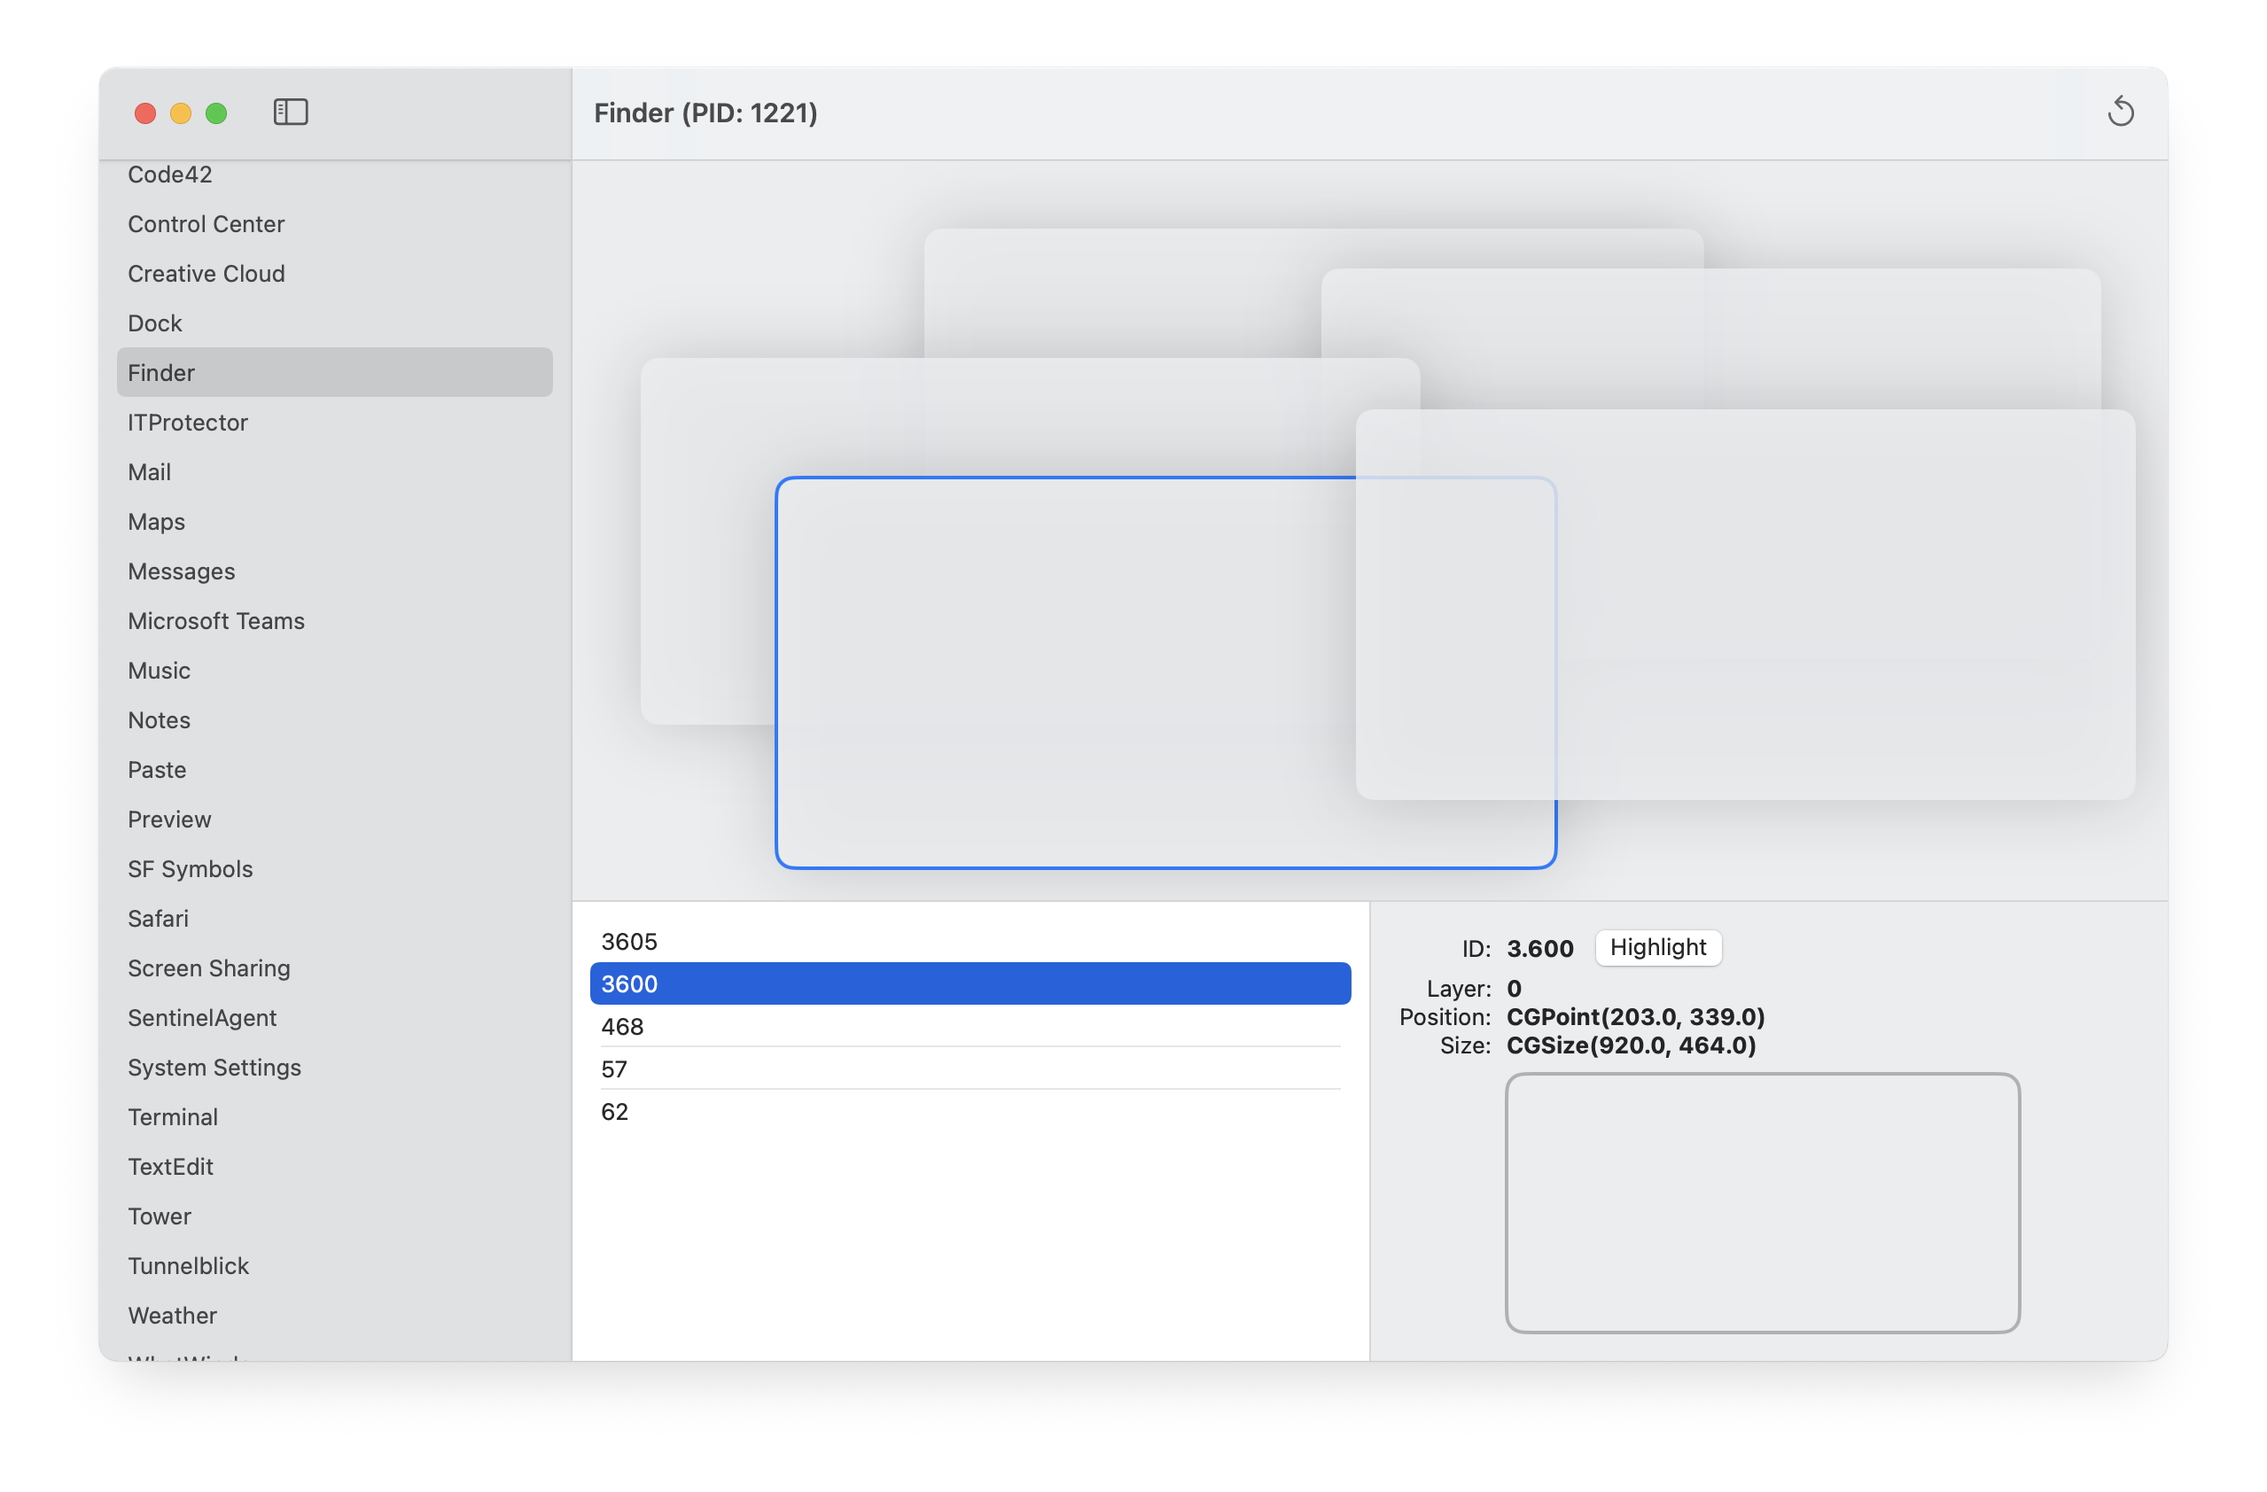
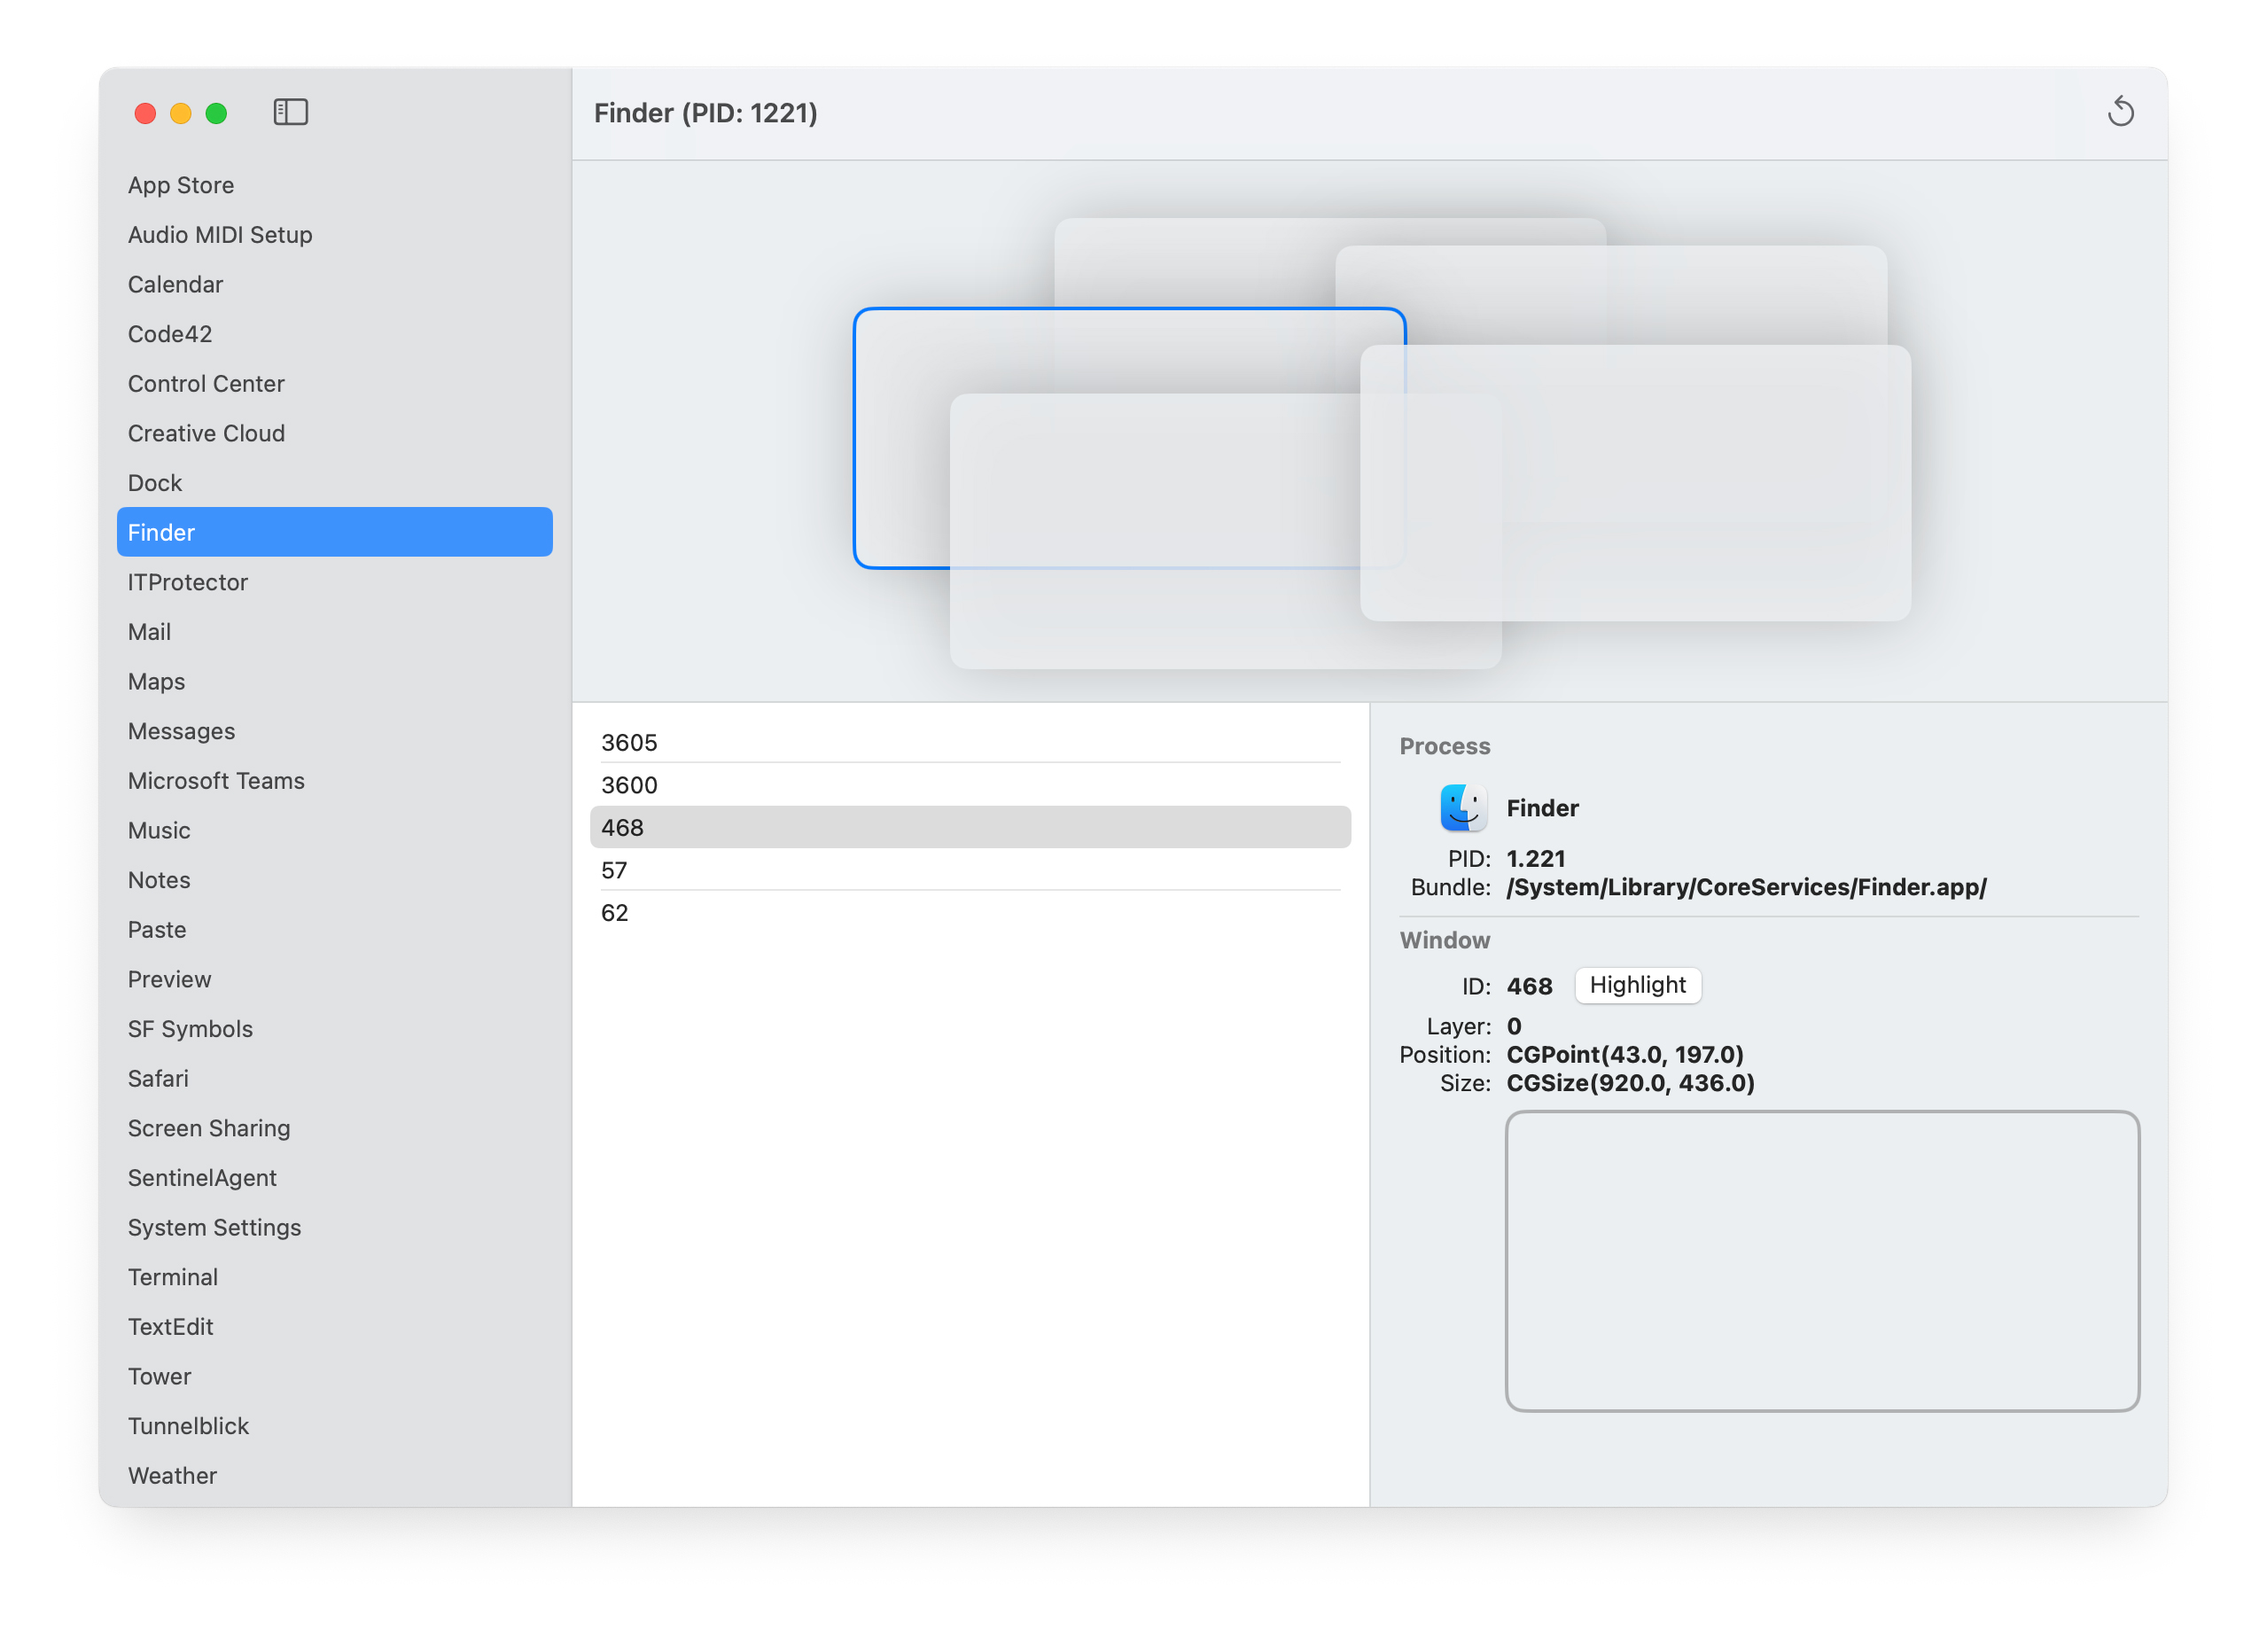
Add process details

diff --git a/WhatWindow/ProcessDetailView.swift b/WhatWindow/ProcessDetailView.swift
@@ -29,7 +29,7 @@ struct ProcessDetailView: View {
                 VStack {
                     Group {
                         if let window = windows.first(where: {$0.id == selectedWindow}) {
-                            WindowDetailView(window: window)
+                            WindowDetailView(process: process, window: window)
                         } else {
                             Text("No selection")
                         }
@@ -42,17 +42,91 @@ struct ProcessDetailView: View {
     }
     
     struct WindowDetailView: View {
+        let process: WindowManager.Process
         let window: WindowManager.Window
+        
+        @State var processInfo = ProcessInfo.none
     
         var body: some View {
             Grid(alignment: Alignment.leading) {
+                GridRow {
+                    Text("Process")
+                        .bold()
+                        .foregroundStyle(.secondary)
+                        .gridCellColumns(2)
+                        .padding(.bottom, 3)
+                        .onAppear {
+                            if let app = NSRunningApplication(processIdentifier: process.id) {
+                                processInfo = .app(app)
+                            } else if let url = getPidURL(pid: process.id) {
+                                processInfo = .executable(url)
+                            }
+                        }
+                }
+                if let name = process.name {
+                    GridRow {
+                        if let icon = processInfo.app?.icon {
+                            Image(nsImage: icon)
+                        } else {
+                            Text("Name:")
+                        }
+                        HStack {
+                            Text(name).bold().textSelection(.enabled)
+                            if let app = processInfo.app {
+                                Button("Activate", systemImage: "arrowshape.right.circle") {
+                                    app.activate()
+                                }
+                            }
+                        }
+                    }
+                }
+                GridRow {
+                    Text("PID:")
+                    Text("\(process.id)").textSelection(.enabled).bold()
+                }
+                switch processInfo {
+                case .app(let app):
+                    if let url = app.bundleURL?.path() {
+                        GridRow {
+                            Text("Bundle:")
+                            Text(url).textSelection(.enabled).bold()
+                        }
+                    }
+                    if let launch = app.launchDate {
+                        GridRow {
+                            Text("Launch date:")
+                            Text("\(launch, format: .dateTime.day().month().year())")
+                                .textSelection(.enabled).bold()
+                        }
+                        GridRow {
+                            Text("Launch time:")
+                            Text("\(launch, format: .dateTime.hour().minute().second().timeZone())")
+                                .textSelection(.enabled).bold()
+                        }
+                    }
+                case .executable(let url):
+                    GridRow {
+                        Text("Executable:")
+                        Text(url.path()).textSelection(.enabled).bold()
+                    }
+                case .none:
+                    EmptyView()
+                }
+                Divider()
+                GridRow {
+                    Text("Window")
+                        .bold()
+                        .foregroundStyle(.secondary)
+                        .gridCellColumns(2)
+                        .padding(.bottom, 3)
+                }
                 GridRow {
                     Text("ID:").gridColumnAlignment(.trailing)
                     HStack {
                         Text("\(window.id)")
                             .textSelection(.enabled)
                             .bold()
-                        Button("Highlight") {
+                        Button("Highlight", systemImage: "star") {
                             highlight(window: window)
                         }
                         .padding(.horizontal, 4)
@@ -95,6 +169,19 @@ struct ProcessDetailView: View {
             }
         }
         
+        func getPidURL(pid: pid_t) -> URL? {
+            let pathBytes = [UInt8](unsafeUninitializedCapacity: Int(PROC_PIDPATHINFO_SIZE)) { buffer, initializedCount in
+                
+                if proc_pidpath(process.id, buffer.baseAddress!, UInt32(PROC_PIDPATHINFO_SIZE)) > 0 {
+                    initializedCount = strlen(buffer.baseAddress!)
+                } else {
+                    print("Error")
+                }
+            }
+            guard let path = String(data: Data(pathBytes), encoding: .utf8) else { return nil }
+            return URL(fileURLWithPath: path)
+        }
+        
         func highlight(window: WindowManager.Window) {
             if let screen = highlightWindow.screen {
                 highlightWindow.orderFront(self)
@@ -113,6 +200,20 @@ struct ProcessDetailView: View {
                             highlightWindow.orderOut(self)
                         }
                     }
+                }
+            }
+        }
+        
+        enum ProcessInfo {
+            case app(NSRunningApplication)
+            case executable(URL)
+            case none
+            
+            var app: NSRunningApplication? {
+                if case .app(let app) = self {
+                    app
+                } else {
+                    nil
                 }
             }
         }
